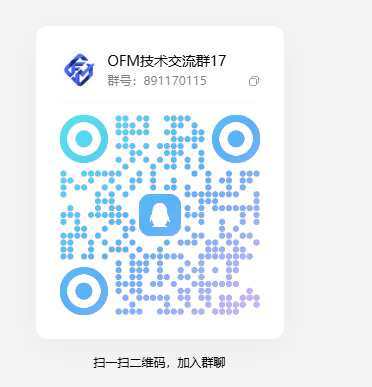
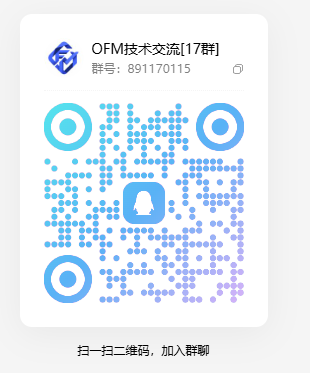
docs: 同步第17群二维码与群号
本次改动影响范围是 README 文档模块。

diff --git a/README.md b/README.md
@@ -39,9 +39,9 @@
 ## 交流群
 
 <div align="center">
-  <img src="docs/images/qq-group-1132377727.png" alt="OFM技术交流[18群]入群二维码（群号：1132377727）" width="300">
+  <img src="docs/images/qq-group-891170115.png" alt="OFM技术交流[17群]入群二维码（群号：891170115）" width="300">
   <br>
-  <b>QQ 群：1132377727（OFM技术交流[18群]）</b>
+  <b>QQ 群：891170115（OFM技术交流[17群]）</b>
   <br>
   扫码加入群聊，一起交流插件使用心得、反馈问题与分享玩法。
 </div>

diff --git a/README_EN.md b/README_EN.md
@@ -40,9 +40,9 @@
 ## Community
 
 <div align="center">
-  <img src="docs/images/qq-group-1132377727.png" alt="QR code for OFM技术交流[18群] (QQ group: 1132377727)" width="300">
+  <img src="docs/images/qq-group-891170115.png" alt="QR code for OFM技术交流[17群] (QQ group: 891170115)" width="300">
   <br>
-  <b>QQ group: 1132377727 (OFM技术交流[18群])</b>
+  <b>QQ group: 891170115 (OFM技术交流[17群])</b>
   <br>
   Scan the QR code to join, discuss the plugin, report issues and share tips.
 </div>
